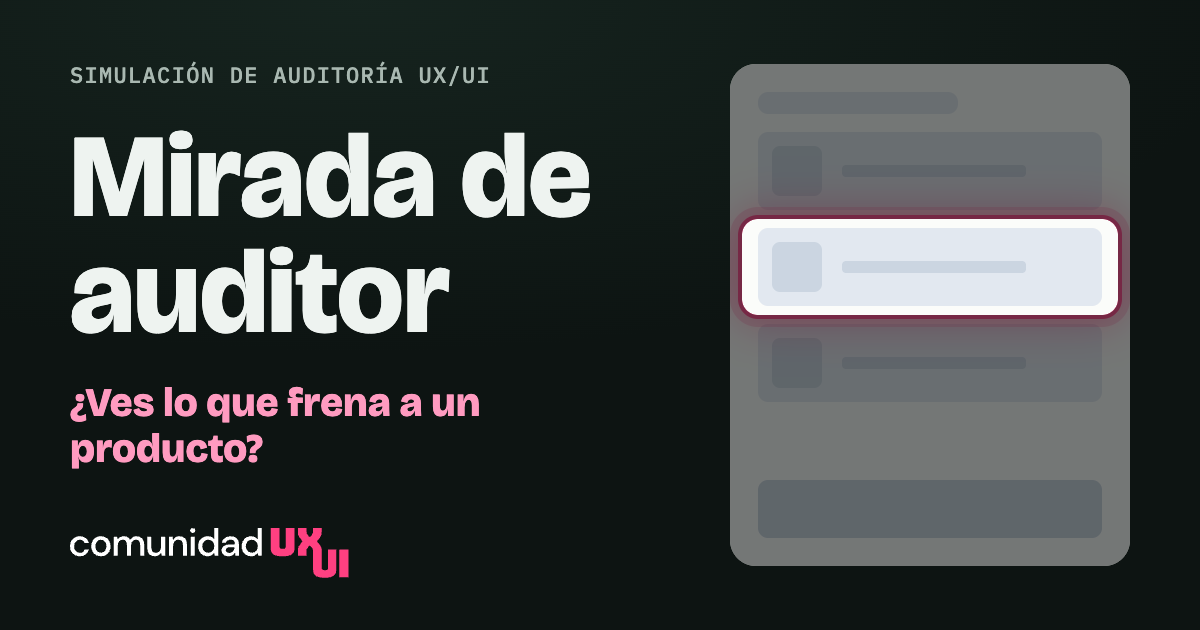
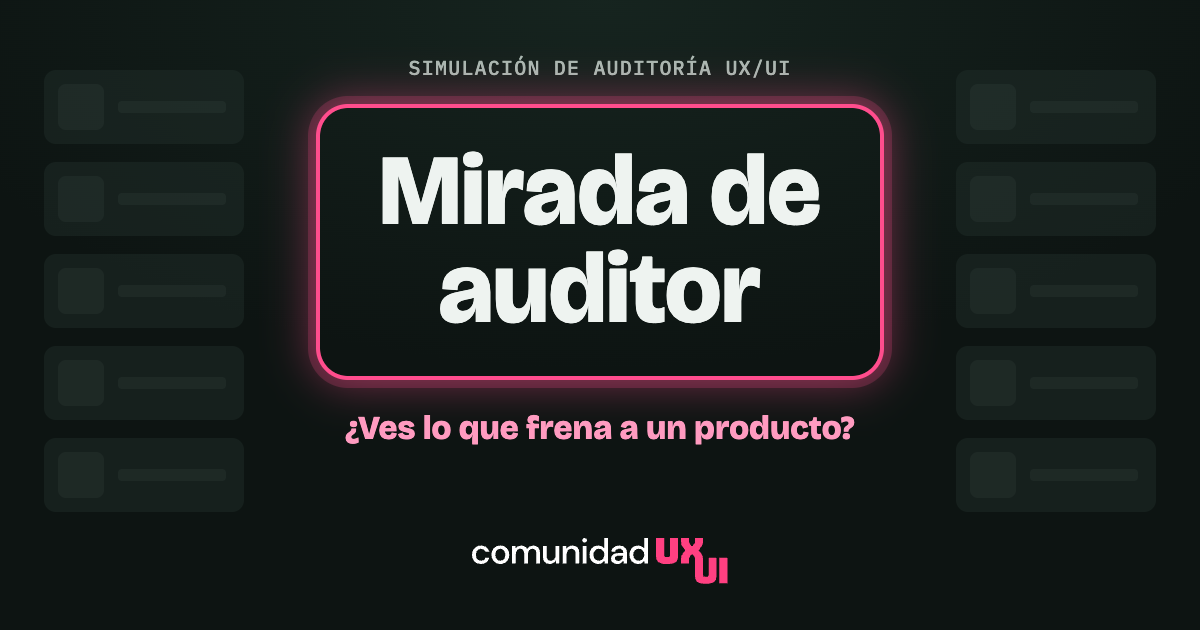
Mirada de auditor: imagen de vista previa centrada, para que no se recorte en WhatsApp

diff --git a/mirada-de-auditor/index.html b/mirada-de-auditor/index.html
@@ -12,7 +12,10 @@
 <meta property="og:title" content="Mirada de auditor · ¿Ves lo que frena a un producto?">
 <meta property="og:description" content="Revisa una app y dile al equipo qué cambiar primero. Descubre qué tan cerca estás de cobrar por evaluar productos.">
 <meta property="og:url" content="https://comunidaduxui.com/mirada-de-auditor/">
-<meta property="og:image" content="https://comunidaduxui.com/mirada-de-auditor/assets/og.png">
+<meta property="og:image" content="https://comunidaduxui.com/mirada-de-auditor/assets/og.png?v=2">
+<meta property="og:image:width" content="1200">
+<meta property="og:image:height" content="630">
+<meta property="og:image:alt" content="Mirada de auditor, simulación de auditoría UX/UI. ¿Ves lo que frena a un producto?">
 <link rel="canonical" href="https://comunidaduxui.com/mirada-de-auditor/">
 <meta property="og:locale" content="es_ES">
 <meta name="twitter:card" content="summary_large_image">
